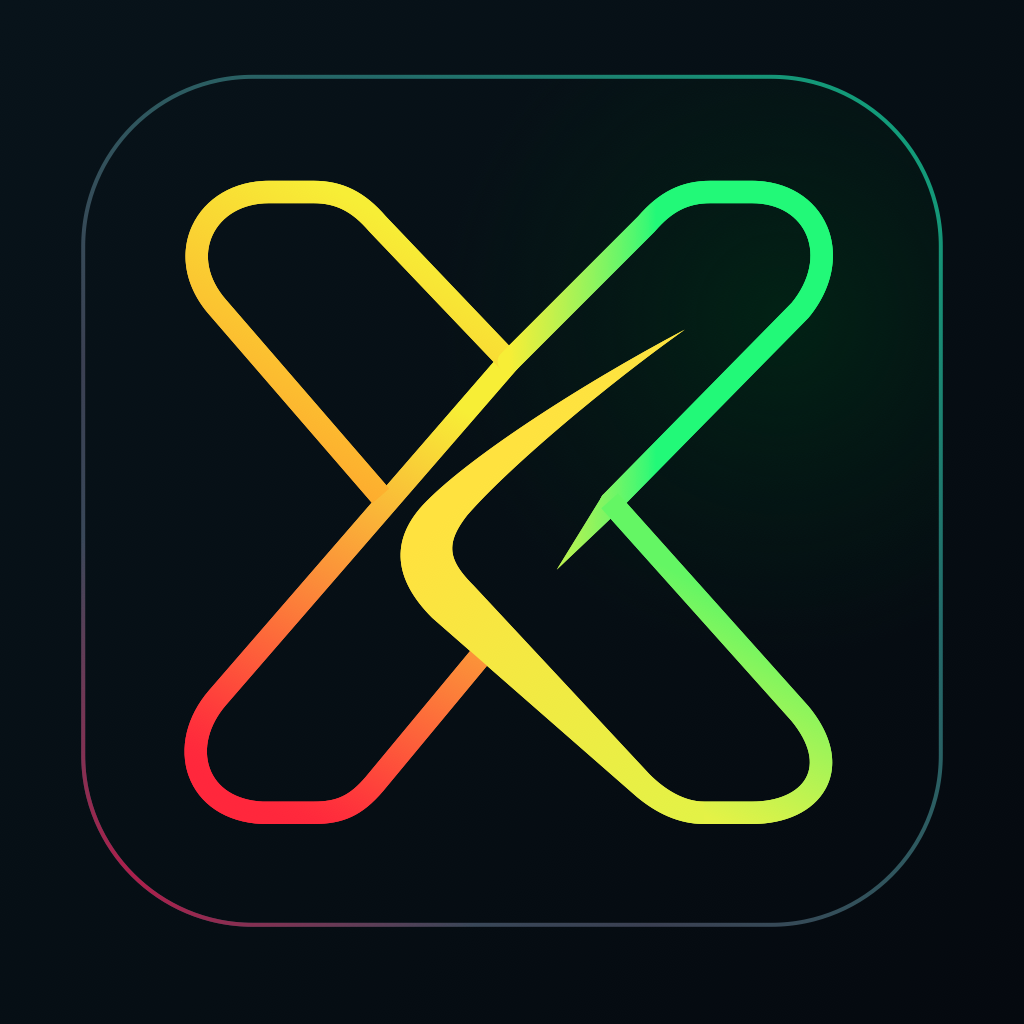
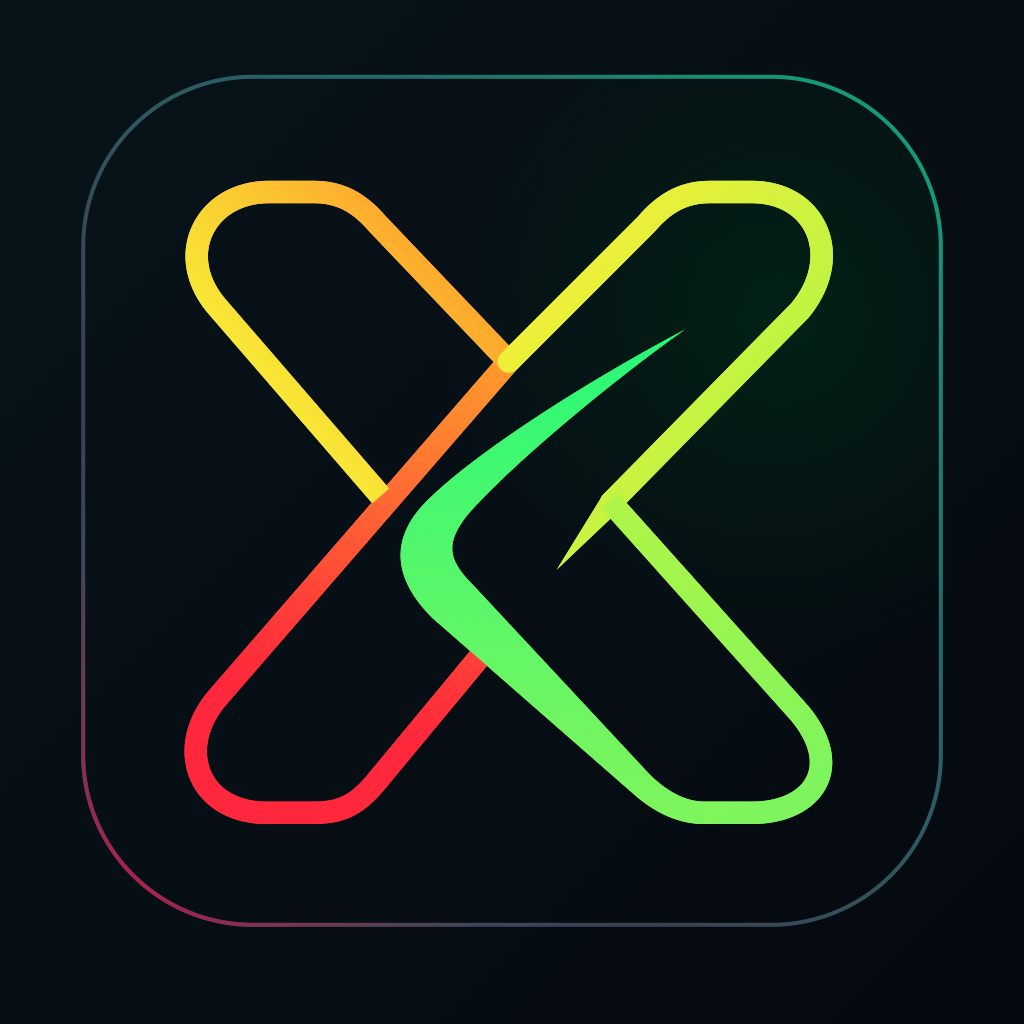
fix: compact food nutrient cards, category image fallback and X route
- Food details: calorie and macro cards show the amount with a
  "Label · NN%" caption (no "of goal" text), tighter padding and wrapping
  at large text; the full goal wording stays in the accessibility label.
  Missing or failed food images fall back to the shared category
  artwork; named portions show their gram or ml weight when known.
- Progression X: the canonical guides now run red → orange → yellow →
  lime and end green at the pointed tip of the sweep, and the static
  exports are regenerated from the same geometry.
- The dark-background, fully coloured X is the default launcher icon in
  every system appearance.

Changed region(s): [[0.1875, 0.1562, 0.8125, 0.8125], [0.7188, 0.625, 0.75, 0.6562], [0.625, 0.3125, 0.6562, 0.3438]]

diff --git a/SparkyFitnessMobile/src/screens/FoodEntryAddScreen.tsx b/SparkyFitnessMobile/src/screens/FoodEntryAddScreen.tsx
@@ -34,6 +34,10 @@ import MarkdownNotesField from '../components/MarkdownNotesField';
 import { useKeepNoteVisible } from '../hooks/useKeepNoteVisible';
 import { NoteMarkdown } from '../components/NoteMarkdown';
 import SafeImage from '../components/SafeImage';
+import FoodThumbnail from '../components/FoodThumbnail';
+import { Image } from 'expo-image';
+import { foodFallbackImage } from '../utils/foodFallbackImages';
+import type { ExternalFoodItem } from '../types/externalFoods';
 import VerifiedBadge from '../components/VerifiedBadge';
 import { useFoodImageSourceContext } from '../components/FoodImageSourceProvider';
 import { externalFoodImage, usableFoodImages } from '../utils/foodImages';
@@ -334,6 +338,16 @@ const FoodEntryAddScreenContent: React.FC<FoodEntryAddScreenProps> = ({
   const foodImageSource = foodImagePath
     ? getFoodImageSource(foodImagePath)
     : null;
+  // Category artwork is display-only; it is never saved as the food's image.
+  const foodGroupTags =
+    activeItem.source === 'external'
+      ? (activeItem.originalItem as ExternalFoodItem).food_group_tags
+      : undefined;
+  const fallbackArtwork = foodFallbackImage(
+    activeItem.name,
+    activeItem.source === 'meal',
+    foodGroupTags
+  );
   const effectiveMealId = selectedMealId ?? defaultMealTypeId;
   const selectedMealType = mealTypes.find((mt) => mt.id === effectiveMealId);
 
@@ -1869,8 +1883,15 @@ const FoodEntryAddScreenContent: React.FC<FoodEntryAddScreenProps> = ({
               style={{ width: '100%', height: 284 }}
               contentFit="cover"
               fallback={
-                <View className="h-full items-center justify-center bg-surface">
-                  <Icon name="food" size={40} color={textPrimary} />
+                <View
+                  testID="food-entry-fallback-artwork"
+                  className="h-full items-center justify-center bg-surface"
+                >
+                  <Image
+                    source={fallbackArtwork}
+                    style={{ width: 160, height: 160 }}
+                    contentFit="contain"
+                  />
                 </View>
               }
             />
@@ -1878,7 +1899,7 @@ const FoodEntryAddScreenContent: React.FC<FoodEntryAddScreenProps> = ({
         ) : null}
 
         <View
-          className="mx-4 rounded-2xl border border-border-subtle bg-surface px-5 py-6 gap-6"
+          className="mx-4 rounded-2xl border border-border-subtle bg-surface px-4 py-5 gap-5"
           style={[
             foodImagePath ? { marginTop: -32 } : null,
             glowing
@@ -1891,6 +1912,17 @@ const FoodEntryAddScreenContent: React.FC<FoodEntryAddScreenProps> = ({
         >
           <View>
             <View className="flex-row items-start gap-2">
+              {foodImagePath ? null : (
+                <FoodThumbnail
+                  image={null}
+                  name={activeItem.name}
+                  foodGroupTags={foodGroupTags}
+                  variant={activeItem.source === 'meal' ? 'meal' : 'food'}
+                  getImageSource={getFoodImageSource}
+                  size={56}
+                  testID="food-entry-category-thumbnail"
+                />
+              )}
               <Text className="flex-1 text-3xl font-bold text-text-primary">
                 {adjustedValues?.name || activeItem.name}
               </Text>
@@ -1910,46 +1942,73 @@ const FoodEntryAddScreenContent: React.FC<FoodEntryAddScreenProps> = ({
             </Text>
           </View>
 
-          <View className="flex-row justify-between gap-2">
-            {nutritionHighlights.map((nutrient) => (
-              <View
-                key={nutrient.key}
-                testID={`food-entry-highlight-${nutrient.key}`}
-                className="min-w-0 flex-1 items-center gap-1 rounded-xl border px-1 py-3"
-                style={{
-                  borderColor: highlightColors[nutrient.key],
-                  backgroundColor: withAlpha(
-                    highlightColors[nutrient.key],
-                    0.15
-                  ),
-                }}
-              >
-                <Text
-                  className="text-center text-xl font-bold text-text-primary"
-                  numberOfLines={1}
-                  adjustsFontSizeToFit
+          {/* Compact cards: amount on top, "Label · NN%" underneath. The
+              percentage appears only with a valid daily target; the full
+              meaning stays in the accessibility label. */}
+          <View
+            className="flex-row flex-wrap justify-between gap-2"
+            testID="food-entry-highlights"
+          >
+            {nutritionHighlights.map((nutrient) => {
+              const amount = formatLocalizedNumber(nutrient.value, {
+                maximumFractionDigits: nutrient.key === 'calories' ? 0 : 1,
+              });
+              const percent =
+                nutrient.goalPercent != null && !isGoalsLoading
+                  ? formatLocalizedNumber(nutrient.goalPercent, {
+                      maximumFractionDigits: 0,
+                    })
+                  : null;
+              return (
+                <View
+                  key={nutrient.key}
+                  testID={`food-entry-highlight-${nutrient.key}`}
+                  accessible
+                  accessibilityLabel={
+                    percent === null
+                      ? t('foodEntryAdd.labels.nutrientAmountA11y', {
+                          defaultValue: '{{label}}: {{amount}} {{unit}}',
+                          label: nutrient.label,
+                          amount,
+                          unit: nutrient.unit,
+                        })
+                      : t('foodEntryAdd.labels.nutrientGoalA11y', {
+                          defaultValue:
+                            '{{label}}: {{amount}} {{unit}}, {{percent}}% of your daily goal',
+                          label: nutrient.label,
+                          amount,
+                          unit: nutrient.unit,
+                          percent,
+                        })
+                  }
+                  className="min-w-[22%] flex-1 items-center rounded-xl border px-1 py-2"
+                  style={{
+                    borderColor: highlightColors[nutrient.key],
+                    backgroundColor: withAlpha(
+                      highlightColors[nutrient.key],
+                      0.15
+                    ),
+                  }}
                 >
-                  {formatLocalizedNumber(nutrient.value, {
-                    maximumFractionDigits: nutrient.key === 'calories' ? 0 : 1,
-                  })}{' '}
-                  <Text className="text-xs font-medium">{nutrient.unit}</Text>
-                </Text>
-                <Text
-                  className="text-center text-sm text-text-secondary"
-                  numberOfLines={2}
-                >
-                  {nutrient.label}
-                </Text>
-                {nutrient.goalPercent != null && !isGoalsLoading ? (
-                  <Text className="mt-1 text-center text-xs text-text-secondary">
-                    {t('foodEntryAdd.labels.ofGoal', {
-                      defaultValue: '{{percent}}% of goal',
-                      percent: nutrient.goalPercent,
-                    })}
+                  <Text
+                    className="text-center text-lg font-bold text-text-primary"
+                    numberOfLines={1}
+                    adjustsFontSizeToFit
+                  >
+                    {amount}{' '}
+                    <Text className="text-xs font-medium">{nutrient.unit}</Text>
                   </Text>
-                ) : null}
-              </View>
-            ))}
+                  <Text
+                    className="text-center text-xs text-text-secondary"
+                    testID={`food-entry-highlight-${nutrient.key}-caption`}
+                  >
+                    {percent === null
+                      ? nutrient.label
+                      : `${nutrient.label} · ${percent}%`}
+                  </Text>
+                </View>
+              );
+            })}
           </View>
 
           <View>

diff --git a/SparkyFitnessMobile/__tests__/screens/FoodEntryAddScreen.test.tsx b/SparkyFitnessMobile/__tests__/screens/FoodEntryAddScreen.test.tsx
@@ -488,6 +488,32 @@ describe('FoodEntryAddScreen', () => {
     expect(navigation.dispatch).toHaveBeenCalledWith({ type: 'POP_TO_TOP' });
   });
 
+  it('shows compact nutrient captions with the goal share but no "of goal" text', () => {
+    useQuery.mockReturnValue({
+      data: { calories: 2000, protein: 100, carbs: 250, fat: 70 },
+      isLoading: false,
+    });
+    const screen = renderScreen({ item: baseLocalItem, date: '2026-04-23' });
+    const caption = screen.getByTestId('food-entry-highlight-calories-caption');
+    expect(caption.props.children).toMatch(/ · \d+%$/);
+    expect(screen.queryByText(/of goal/)).toBeNull();
+    expect(
+      screen.getByTestId('food-entry-highlight-calories').props
+        .accessibilityLabel
+    ).toMatch(/% of your daily goal$/);
+  });
+
+  it('omits the percentage without a valid target', () => {
+    const screen = renderScreen({ item: baseLocalItem, date: '2026-04-23' });
+    const caption = screen.getByTestId('food-entry-highlight-protein-caption');
+    expect(caption.props.children).not.toMatch(/%/);
+  });
+
+  it('shows category artwork, not a stored image, when a food has no photo', () => {
+    const screen = renderScreen({ item: baseLocalItem, date: '2026-04-23' });
+    expect(screen.getByTestId('food-entry-category-thumbnail')).toBeTruthy();
+  });
+
   it('offers one-tap serving amounts that set the logged quantity', () => {
     // Amounts are multiples of the selected stored serving (1 cup here).
     const screen = renderScreen({ item: baseLocalItem, date: '2026-04-23' });

diff --git a/SparkyFitnessMobile/__tests__/brand/progressionX.test.ts b/SparkyFitnessMobile/__tests__/brand/progressionX.test.ts
@@ -56,3 +56,35 @@ describe('one-value progression X', () => {
     ).toHaveProperty('taperPath');
   });
 });
+
+describe('canonical colour route', () => {
+  const segments = progressionXGeometry.segments;
+  const numbers = (guide: string) => guide.match(/-?\d+(?:\.\d+)?/g) ?? [];
+  const endOf = (guide: string) => numbers(guide).slice(-2).join(' ');
+  const startOf = (guide: string) => numbers(guide).slice(0, 2).join(' ');
+
+  it('begins warm and ends green at the pointed tip of the sweep', () => {
+    expect(segments[0]?.gradient.from.toUpperCase()).toBe('#FF123C');
+    const last = segments[segments.length - 1];
+    expect(last?.id).toBe('sweep');
+    expect(endOf(last?.guide ?? '')).toBe('214 103');
+    expect(last?.gradient).toMatchObject({ x2: 214, y2: 103, to: '#22F978' });
+  });
+
+  it('hands each colour on to the next segment', () => {
+    for (let index = 1; index < segments.length; index += 1) {
+      expect(segments[index]?.gradient.from).toBe(
+        segments[index - 1]?.gradient.to
+      );
+    }
+  });
+
+  it('continues the reveal where the previous stroke ends', () => {
+    expect(startOf(segments[1]?.guide ?? '')).toBe(
+      endOf(segments[0]?.guide ?? '')
+    );
+    expect(startOf(segments[4]?.guide ?? '')).toBe(
+      endOf(segments[3]?.guide ?? '')
+    );
+  });
+});

diff --git a/SparkyFitnessMobile/__tests__/utils/foodDetails.test.ts b/SparkyFitnessMobile/__tests__/utils/foodDetails.test.ts
@@ -326,6 +326,42 @@ describe('formatVariantLabel', () => {
       })
     ).toBe('1 piece (15 g) (50 cal)');
   });
+
+  test('adds the gram weight to a named portion that does not state it', () => {
+    expect(
+      formatVariantLabel({
+        servingSize: 30,
+        servingUnit: 'g',
+        servingDescription: '1 slice',
+        calories: 75,
+      })
+    ).toBe('1 slice (30 g) (75 cal)');
+  });
+
+  test('uses a metric equivalent for a non-metric named portion', () => {
+    expect(
+      formatVariantLabel(
+        {
+          servingSize: 1,
+          servingUnit: 'piece',
+          servingDescription: '1 medium',
+          calories: 90,
+        },
+        [{ serving_size: 118, serving_unit: 'g' } as never]
+      )
+    ).toBe('1 medium (118 g) (90 cal)');
+  });
+
+  test('keeps a portion without a known weight as described', () => {
+    expect(
+      formatVariantLabel({
+        servingSize: 1,
+        servingUnit: 'piece',
+        servingDescription: '1 medium',
+        calories: 90,
+      })
+    ).toBe('1 medium (90 cal)');
+  });
 });
 
 describe('buildLocalVariantOptions', () => {

diff --git a/SparkyFitnessMobile/src/utils/foodDetails.ts b/SparkyFitnessMobile/src/utils/foodDetails.ts
@@ -422,7 +422,18 @@ export function formatVariantServingLabel(
   equivalents?: EquivalentUnit[]
 ): string {
   if (hasMeaningfulDescription(values.servingDescription)) {
-    return formatServingDescription(values.servingDescription ?? '');
+    const description = formatServingDescription(
+      values.servingDescription ?? ''
+    );
+    // A named portion shows its weight or volume when that is known and the
+    // description does not already state it ("1 slice (30 g)").
+    if (/\d\s*(g|ml|kg|l)\b/i.test(description)) return description;
+    const metric = isMetricUnit(values.servingUnit)
+      ? { serving_size: values.servingSize, serving_unit: values.servingUnit }
+      : findMetricEquivalent(equivalents);
+    return metric && metric.serving_size > 0
+      ? `${description} (${formatLocalizedUnitQuantity(metric.serving_size, metric.serving_unit, i18n.t)})`
+      : description;
   }
 
   const servingLabel = formatLocalizedUnitQuantity(
